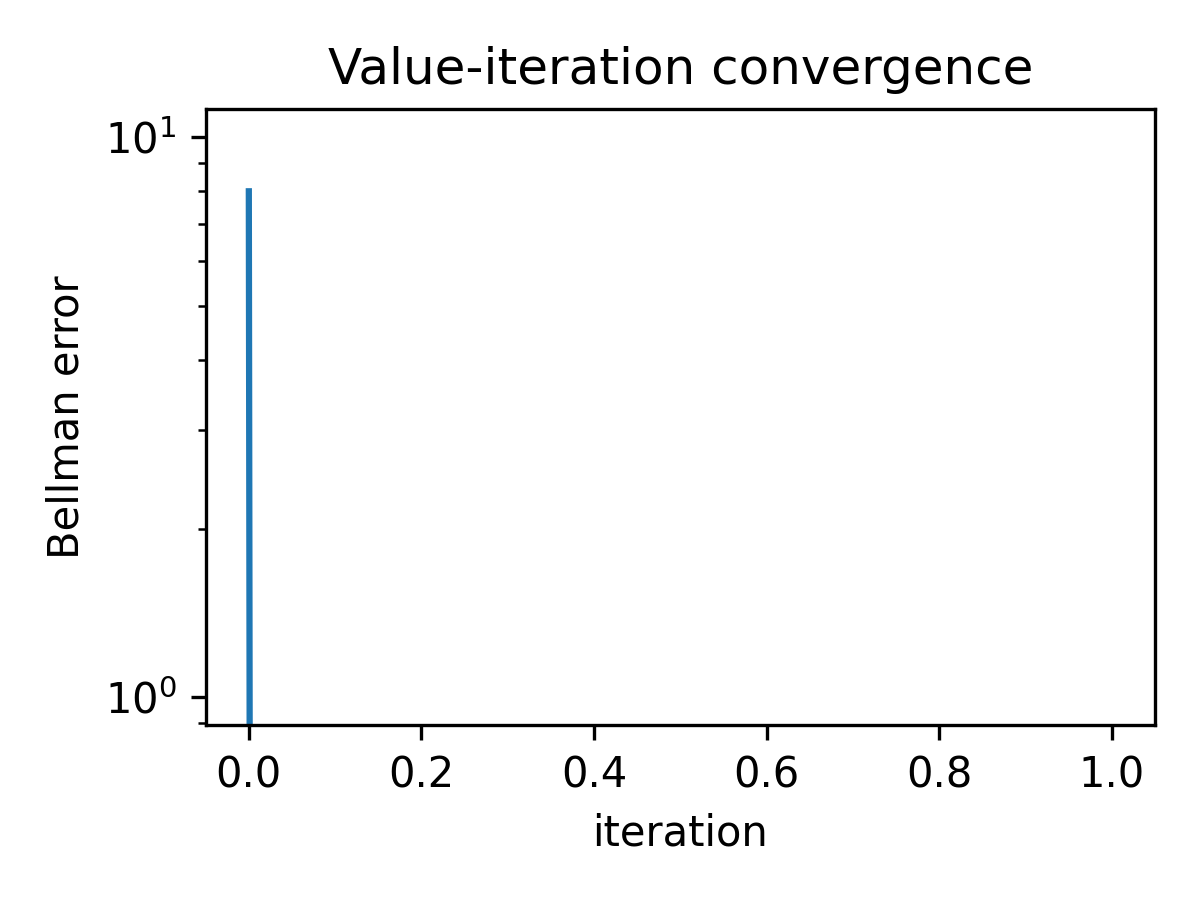
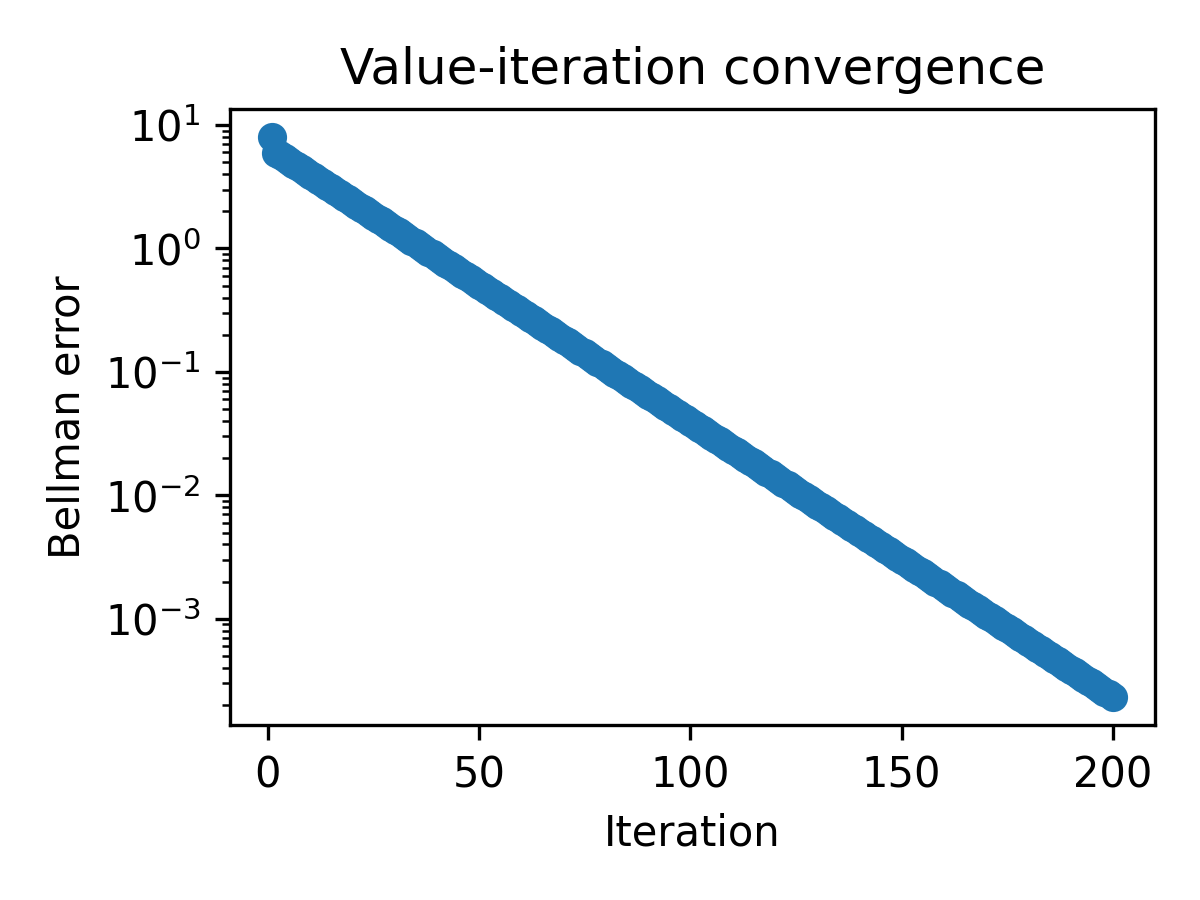
Refactor main.py and add figures

diff --git a/main.py b/main.py
@@ -1,41 +1,50 @@
 #!/usr/bin/env python3
 """
-main.py  –  Dynamic‐programming grid search for optimal
-            two-tier loyalty bonuses.
+main.py – Dynamic-programming grid search for optimal
+          two-tier loyalty bonuses 
 """
-import numpy as np                # numerical core
-import matplotlib.pyplot as plt   # plotting
-from itertools import product
+import numpy as np
+import matplotlib.pyplot as plt
+
 # -------------------------------------------------------------------
-# 0)  PARAMETERS
+# 0) PARAMETERS
 beta, alpha, theta0, tau1 = 0.95, 0.20, 1.0, 20.0
 C_vals = np.arange(0, 60, 20)
 B_vals = np.arange(0, 60, 20)
 R_menu = np.array([0., 10.])
 S_step = 5.0
-U = lambda s: np.sqrt(s)          # concave utility
+U = lambda s: np.sqrt(s)           # concave utility
+
 # -------------------------------------------------------------------
-# 1)  VALUE ITERATION
-def value_iteration(phi_l, phi_h, tol=1e-4, iters=200):
+# 1)  VALUE ITERATION (single sweep helper)
+def _bellman_sweep(V, phi_l, phi_h):
+    V_new = np.empty_like(V)
+    for iC, C in enumerate(C_vals):
+        for iB, B in enumerate(B_vals):
+            phi = phi_l if C < tau1 else phi_h
+            best = -1e9
+            for R in R_menu:
+                theta = theta0 + phi * R
+                for S in np.arange(0, B + R * theta + 1e-9, S_step):
+                    C1, B1 = C + R, B + R * theta - S
+                    jC = min(int(round(C1 / 20)), len(C_vals) - 1)
+                    jB = min(int(round(B1 / 20)), len(B_vals) - 1)
+                    best = max(best, U(S) - alpha * R + beta * V[jC, jB])
+            V_new[iC, iB] = best
+    return V_new
+
+def value_iteration(phi_l, phi_h, tol=1e-4, max_iter=200, return_err=False):
     V = np.zeros((len(C_vals), len(B_vals)))
-    for _ in range(iters):
-        V_new = V.copy()
-        for iC, C in enumerate(C_vals):
-            for iB, B in enumerate(B_vals):
-                phi = phi_l if C < tau1 else phi_h
-                best = -1e9
-                for R in R_menu:
-                    theta = theta0 + phi * R
-                    for S in np.arange(0, B+R*theta+1e-9, S_step):
-                        C1, B1 = C+R, B+R*theta - S
-                        jC = min(int(round(C1 / 20)), len(C_vals)-1)
-                        jB = min(int(round(B1 / 20)), len(B_vals)-1)
-                        best = max(best, U(S)-alpha*R + beta*V[jC, jB])
-                V_new[iC, iB] = best
-        if np.abs(V_new - V).max() < tol:
+    errs = []
+    for _ in range(max_iter):
+        V_new = _bellman_sweep(V, phi_l, phi_h)
+        err   = np.abs(V_new - V).max()
+        errs.append(err)
+        if err < tol:
             break
         V = V_new
-    return V
+    return (V, errs) if return_err else V
+
 # -------------------------------------------------------------------
 # 2)  GRID SEARCH + HEATMAP
 def sweep():
@@ -47,21 +56,37 @@ def sweep():
                 continue
             heat[i, j] = value_iteration(pl, ph)[0, 0]
     return phi_grid, heat
+
 # -------------------------------------------------------------------
 # 3)  MAIN ENTRY POINT
 if __name__ == "__main__":
+    # --- grid search ---
     phi, heat = sweep()
-    i, j = np.nanargmax(heat)//heat.shape[1], np.nanargmax(heat)%heat.shape[1]
-    pl_star, ph_star = phi[i], phi[j]
-    print(f"Optimum (phi_l, phi_h)=({pl_star:.2f},{ph_star:.2f})",
-          f"W(0,0)={heat[i,j]:.2f}")
-    fig, ax = plt.subplots(figsize=(6,5))
-    im = ax.imshow(heat, origin='lower',
-                   extent=[phi[0], phi[-1], phi[0], phi[-1]], aspect='auto')
-    ax.scatter(ph_star, pl_star, s=120, c='r', marker='*')
-    ax.set_xlabel(r'$\varphi_h$'); ax.set_ylabel(r'$\varphi_\ell$')
-    ax.set_title('Platform value $W(0,0)$')
-    fig.colorbar(im, ax=ax); fig.tight_layout()
-    fig.savefig("heatmap_star.png", dpi=300)
+    i_star, j_star = divmod(np.nanargmax(heat), heat.shape[1])
+    pl_star, ph_star = phi[i_star], phi[j_star]
+    print(f"Optimum (phi_l, phi_h)=({pl_star:.2f},{ph_star:.2f}), "
+          f"W(0,0)={heat[i_star, j_star]:.2f}")
 
+    # --- Figure 1: heat-map ---
+    fig1, ax1 = plt.subplots(figsize=(6, 5))
+    im = ax1.imshow(heat, origin='lower',
+                    extent=[phi[0], phi[-1], phi[0], phi[-1]], aspect='auto')
+    ax1.scatter(ph_star, pl_star, s=120, c='r', marker='*', label='optimum')
+    ax1.set_xlabel(r'$\varphi_h$')
+    ax1.set_ylabel(r'$\varphi_\ell$')
+    ax1.set_title('Platform value $W(0,0)$')
+    fig1.colorbar(im, ax=ax1, label='value')
+    ax1.legend()
+    fig1.tight_layout()
+    fig1.savefig("heatmap_star.png", dpi=300)
+
+    # --- Figure 2: convergence curve ---
+    _, err = value_iteration(pl_star, ph_star, return_err=True)
+    fig2, ax2 = plt.subplots(figsize=(4, 3))
+    ax2.semilogy(range(1, len(err) + 1), err, marker='o')
+    ax2.set_xlabel('Iteration')
+    ax2.set_ylabel('Bellman error')
+    ax2.set_title('Value-iteration convergence')
+    fig2.tight_layout()
+    fig2.savefig("bellman_conv.png", dpi=300)
 
